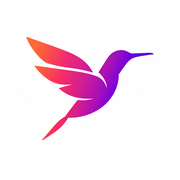
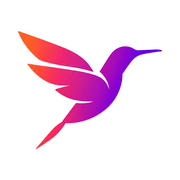
brand: サイトロゴをハチドリマークへ刷新
ヘッダー/フッター/LPのLogoコンポーネントを新ロゴ(透過ハチドリ)に差し替え。
favicon(512)・apple-icon(180)・OG画像(logo.png)も同マークで再生成し、
iconsのキャッシュバスターをv=20260819へ更新。
IntroLoaderはワードマーク手描きアニメから鳥マークのフェードイン+ハローに変更。

Changed region(s): [[0.0833, 0.1667, 0.6111, 0.5833], [0.1944, 0.25, 0.9167, 0.8333], [0.3889, 0.5833, 0.4167, 0.6111]]

diff --git a/src/components/IntroLoader.tsx b/src/components/IntroLoader.tsx
@@ -1,46 +1,11 @@
 "use client";
 
+import Image from "next/image";
 import { useEffect, useState } from "react";
 import { usePathname } from "next/navigation";
 
-// Hand-traced centerline paths of /public/images/logo-clear-wordmark.png
-// (1435x445, 41px monoline stroke, round caps). Coordinates were measured from
-// the PNG's alpha channel so the drawn strokes reproduce the real letterforms.
-// Durations are proportional to path length so the "pen" keeps an even pace,
-// with a soft ease per stroke for a calligraphic feel.
-const STROKES = [
-  { d: "M260.3 182.7A140.5 140.5 0 1 0 260.3 381.3", dur: 0.34, delay: 0.13 }, // c
-  { d: "M375.5 21V421.5", dur: 0.21, delay: 0.52 }, // l
-  { d: "M590.5 278.5H770.5A140.5 140.5 0 1 0 731.9 377.7", dur: 0.49, delay: 0.78 }, // e
-  {
-    d: "M1033.4 419.4A140.5 140.5 0 1 1 1136.3 221.6Q1148 247 1148 280V421.5",
-    dur: 0.42,
-    delay: 1.32,
-  }, // a: one continuous stroke — open end of the bowl → around → blends into the stem
-  { d: "M1278.5 421.5V278.3A138.3 138.3 0 0 1 1414 140", dur: 0.2, delay: 1.79 }, // r
-];
-
-function Strokes({ className }: { className?: string }) {
-  return (
-    <g className={className}>
-      {STROKES.map((s, i) => (
-        <path
-          key={i}
-          d={s.d}
-          pathLength={100}
-          fill="none"
-          stroke="url(#introClearGrad)"
-          strokeWidth={41}
-          strokeLinecap="round"
-          strokeLinejoin="round"
-          className="intro-stroke"
-          style={{ animationDuration: `${s.dur}s`, animationDelay: `${s.delay}s` }}
-        />
-      ))}
-    </g>
-  );
-}
-
+// Intro shows the hummingbird mark (public/images/logo-clear-bird.png, 665x547)
+// rising softly into place with a luminous halo, then the overlay fades out.
 export default function IntroLoader() {
   const pathname = usePathname();
   const [fading, setFading] = useState(false);
@@ -50,8 +15,8 @@ export default function IntroLoader() {
   useEffect(() => {
     if (isStandaloneLp) return;
     const reduce = window.matchMedia("(prefers-reduced-motion: reduce)").matches;
-    const showMs = reduce ? 200 : 2600; // writing ends at ~2.0s + a quiet hold
-    const gone = reduce ? 1250 : 3650; // fully removed after the 1s fade
+    const showMs = reduce ? 200 : 1800; // mark settles at ~1.2s + a quiet hold
+    const gone = reduce ? 1250 : 2850; // fully removed after the 1s fade
 
     document.body.style.overflow = "hidden"; // lock scroll while intro shows
     const t1 = setTimeout(() => {
@@ -77,53 +42,48 @@ export default function IntroLoader() {
       }`}
       style={{ pointerEvents: fading ? "none" : "auto" }}
     >
-      <svg viewBox="0 0 1435 445" className="h-14 w-auto md:h-20">
-        <defs>
-          {/* Horizontal gradient sampled from the wordmark PNG, pre-blended over white */}
-          <linearGradient
-            id="introClearGrad"
-            gradientUnits="userSpaceOnUse"
-            x1="0"
-            y1="0"
-            x2="1435"
-            y2="0"
-          >
-            <stop offset="0" stopColor="#FB8348" />
-            <stop offset="0.11" stopColor="#F57364" />
-            <stop offset="0.26" stopColor="#ED5A94" />
-            <stop offset="0.44" stopColor="#E13AC2" />
-            <stop offset="0.7" stopColor="#BC36EC" />
-            <stop offset="0.89" stopColor="#8E31FC" />
-            <stop offset="1" stopColor="#852FFC" />
-          </linearGradient>
-          <filter id="introGlow" x="-30%" y="-60%" width="160%" height="220%">
-            <feGaussianBlur stdDeviation="13" />
-          </filter>
-        </defs>
-        {/* Soft luminous halo drawn in sync under the crisp strokes */}
-        <Strokes className="intro-glow" />
-        <Strokes />
-      </svg>
+      <div className="relative">
+        <Image
+          src="/images/logo-clear-bird.png"
+          alt=""
+          width={665}
+          height={547}
+          priority
+          className="intro-bird intro-bird-glow absolute inset-0 h-24 w-auto md:h-32"
+        />
+        <Image
+          src="/images/logo-clear-bird.png"
+          alt=""
+          width={665}
+          height={547}
+          priority
+          className="intro-bird h-24 w-auto md:h-32"
+        />
+      </div>
       <style>{`
-        .intro-stroke {
-          stroke-dasharray: 100.7;
-          stroke-dashoffset: 100.7;
-          animation-name: introDraw;
-          animation-timing-function: cubic-bezier(0.45, 0.05, 0.55, 0.95);
-          animation-fill-mode: forwards;
+        .intro-bird {
+          opacity: 0;
+          transform: translateY(14px) scale(0.94);
+          animation: introBird 1.2s cubic-bezier(0.22, 0.9, 0.35, 1) forwards;
         }
-        .intro-glow {
-          filter: url(#introGlow);
-          opacity: 0.5;
+        .intro-bird-glow {
+          filter: blur(14px);
+          animation-name: introBirdGlow;
         }
-        @keyframes introDraw {
-          to { stroke-dashoffset: 0; }
+        @keyframes introBird {
+          to { opacity: 1; transform: translateY(0) scale(1); }
+        }
+        @keyframes introBirdGlow {
+          to { opacity: 0.45; transform: translateY(0) scale(1.04); }
         }
         @media (prefers-reduced-motion: reduce) {
-          .intro-stroke {
+          .intro-bird {
             animation: none;
-            stroke-dasharray: none;
-            stroke-dashoffset: 0;
+            opacity: 1;
+            transform: none;
+          }
+          .intro-bird-glow {
+            opacity: 0.45;
           }
         }
       `}</style>

diff --git a/src/components/Logo.tsx b/src/components/Logo.tsx
@@ -1,10 +1,10 @@
 import Image from "next/image";
 
-// Intrinsic aspect ratio of the wordmark PNG (public/images/logo-clear-wordmark.png).
-// The artwork is a transparent-background gradient wordmark, so it reads on both
+// Intrinsic aspect ratio of the hummingbird mark PNG (public/images/logo-clear-bird.png).
+// The artwork is a transparent-background gradient mark, so it reads on both
 // the white header and the dark footer without a separate light/dark variant.
-const MARK_W = 1435;
-const MARK_H = 445;
+const MARK_W = 665;
+const MARK_H = 547;
 
 export default function Logo({
   size = 32,
@@ -15,7 +15,7 @@ export default function Logo({
 }) {
   return (
     <Image
-      src="/images/logo-clear-wordmark.png"
+      src="/images/logo-clear-bird.png"
       alt="ClearAI"
       width={Math.round((size * MARK_W) / MARK_H)}
       height={size}

diff --git a/src/app/layout.tsx b/src/app/layout.tsx
@@ -88,10 +88,10 @@ export const metadata: Metadata = {
   applicationName: "ClearAI",
   icons: {
     icon: [
-      { url: "/icon.png?v=20260812", type: "image/png", sizes: "512x512" },
+      { url: "/icon.png?v=20260819", type: "image/png", sizes: "512x512" },
     ],
-    shortcut: "/icon.png?v=20260812",
-    apple: "/apple-icon.png?v=20260812",
+    shortcut: "/icon.png?v=20260819",
+    apple: "/apple-icon.png?v=20260819",
   },
   referrer: "origin-when-cross-origin",
   formatDetection: {
